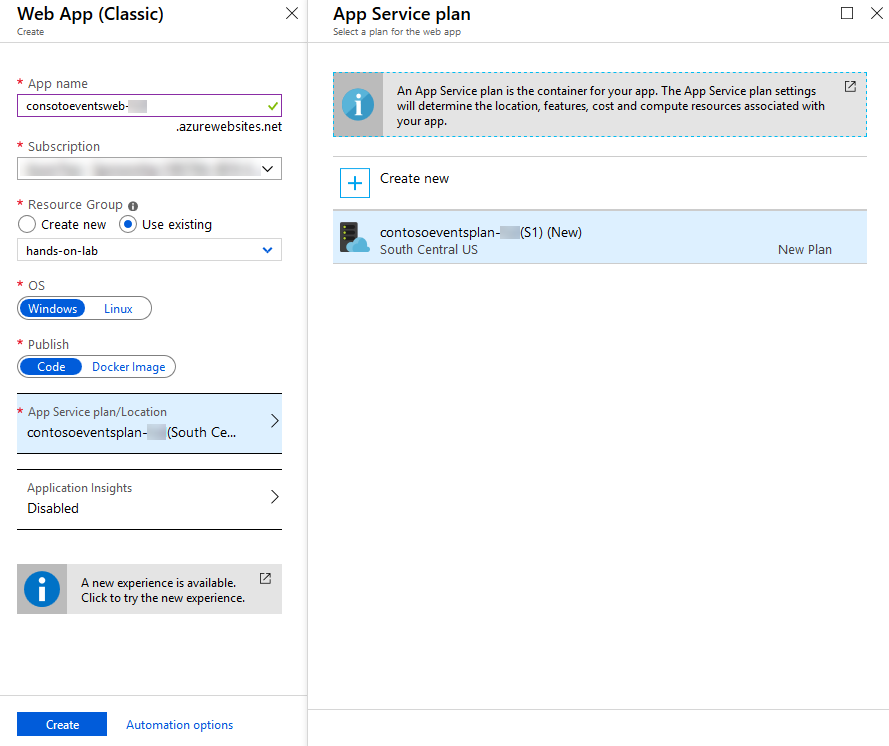
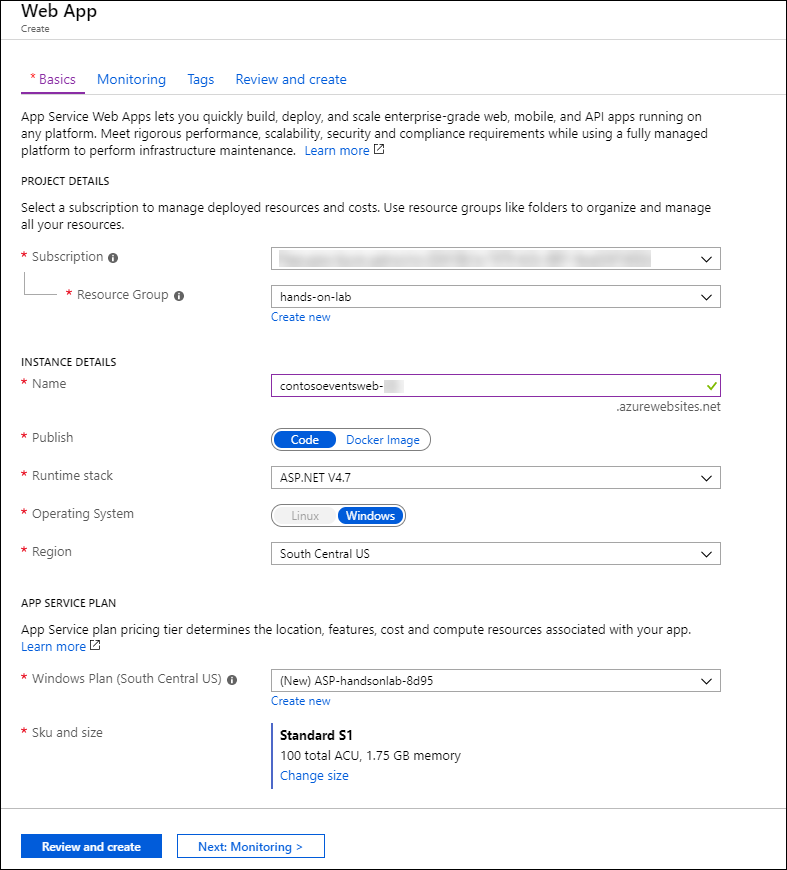
Added the Table of Contents.  Fixed the Web app creation instructions and updated its screenshots

diff --git a/Hands-on lab/HOL step-by-step - Microservices architecture - Developer edition.md b/Hands-on lab/HOL step-by-step - Microservices architecture - Developer edition.md
@@ -55,14 +55,17 @@ Microsoft and the trademarks listed at <https://www.microsoft.com/en-us/legal/in
 		* [Task 4: Set the environment variables to the Orders microservice](#task-4-set-the-environment-variables-to-the-orders-microservice)
 		* [Task 5: Set the Container Registry credentials in the ApplicationManifest.xml file](#task-5-set-the-container-registry-credentials-in-the-applicationmanifestxml-file)
 		* [Task 6: Publish the Service Fabric Application](#task-6-publish-the-service-fabric-application)
-		* [Task 7: Test the Events microservice by using Swagger](#task-7-test-the-events-microservice-by-using-swagger)
-		* [Task 8: Test the Orders microservice by using Swagger](#task-8-test-the-orders-microservice-by-using-swagger)
-	* [Exercise 5: API Management](#exercise-5-api-management)
+	* [Exercise 5: Set up the Function](#exercise-5-set-up-the-function)
+		* [Task 1: Set up the function](#task-1-set-up-the-function)
+	* [Exercise 6: Placing ticket orders](#exercise-6-placing-ticket-orders)
+		* [Task 1: Test the Events microservice by using Swagger](#task-1-test-the-events-microservice-by-using-swagger)
+		* [Task 2: Test the Orders microservice by using Swagger](#task-2-test-the-orders-microservice-by-using-swagger)
+	* [Exercise 7: API Management](#exercise-7-api-management)
 		* [Task 1: Import Events API](#task-1-import-events-api)
-		* [Task 2:  Import Orders API](#task-2--import-orders-api)
+		* [Task 2: Import Orders API](#task-2-import-orders-api)
 		* [Task 3: Retrieve the user subscription key](#task-3-retrieve-the-user-subscription-key)
 		* [Task 4: Configure the Function App with the API Management key](#task-4-configure-the-function-app-with-the-api-management-key)
-	* [Exercise 6: Configure and publish the web application](#exercise-6-configure-and-publish-the-web-application)
+	* [Exercise 8: Configure and publish the web application](#exercise-8-configure-and-publish-the-web-application)
 		* [Task 1: Configure the web app settings](#task-1-configure-the-web-app-settings)
 		* [Task 2: Running the web app and creating an order](#task-2-running-the-web-app-and-creating-an-order)
 		* [Task 3: Publish the web app](#task-3-publish-the-web-app)
@@ -207,33 +210,26 @@ In these steps, you will provision a Web App in a new App Service Plan.
 
 2.  On the Create Web App blade, enter the following:
 
-    a.  App name: Enter a unique name, such as **contosoeventsweb-SUFFIX**.
-
-    b.  Subscription: Select your subscription.
-
-    c.  Resource group: Select Use existing, and select the **hands-on-lab** resource group created previously.
-
-    d.  OS: Select **Windows**.
-
-    e.  App Service plan/Location: Click to open the App Service plan blade, then select **Create new**.
-
-       - App service plan: Enter **contosoeventsplan-SUFFIX**
-
-       - Location: Select the same location you have been using for other resources in this lab.
-
-       - Pricing tier: Select **S1 Standard**.
-
-       - Select **OK**.
+    a.  Subscription: Select your subscription.
     
-    f.  Publish: Select **Code**
+    b.  Resource group: Select the **hands-on-lab** resource group created previously.
     
-    g.  Application Insights: Click to open the Application Insights blade, then select **Disable**.  Select **Apply**.
+    c.  Name: Enter a unique name, such as **contosoeventsweb-SUFFIX**
+
+    d.  Publish: Select **Code**
     
-    h.  Select **Create** to provision the Web App.
+    e.  Runtime stack: Select **ASP.NET V4.7**
+
+    f.  Operating System: Select **Windows**.
+    
+    g.  Region: Select the same location you have been using for other resources in this lab.
+
+    h.  Windows Plan / Sku and size: Leave the default values.
+    
+    i.  Select **Review and create**, and then select **Create** to provision the Web App.
 
     ![On the Create Web App blade, fields are set to the previously defined settings.](media/create-web-app.png "Create Web App blade")
     
-
 3.  You will receive a notification in the Azure portal when the Web App deployment completes. From this, select Go to resource.
 
     ![The Azure Portal Notification displays, indicating that deployment succeeded. In the top corner of the notification window, a Bell (notification) icon is circled. At the bottom of the Deployment succeeded message, the Go to resource button is circled.](media/image52.png "Azure Portal Notification")
